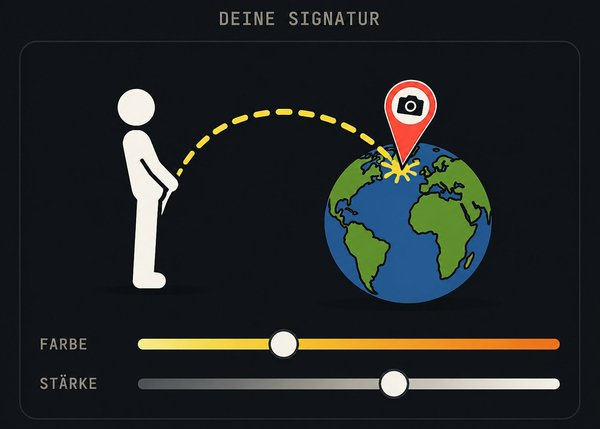
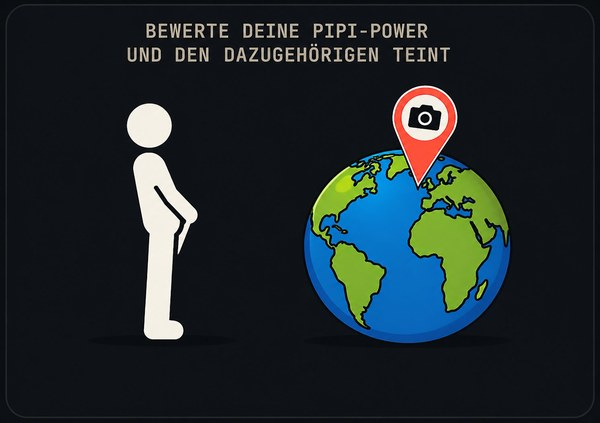
Add files via upload

diff --git a/index.html b/index.html
@@ -49,7 +49,6 @@
 
   #map { position: absolute; inset: 0; z-index: 1; }
 
-  /* App-Icon unten links als kleines Logo */
   .app-logo {
     position: absolute;
     bottom: calc(var(--safe-bottom) + 22px);
@@ -200,7 +199,6 @@
     pointer-events: none;
   }
 
-  /* Signatur-Bereich */
   .slider-section {
     margin-top: 18px;
     padding: 16px;
@@ -217,12 +215,29 @@
     margin-bottom: 12px;
     text-align: center;
   }
-  .signature-image {
+
+  /* Bild + interaktiver Strahl darüber */
+  .signature-stage {
+    position: relative;
     width: 100%;
     border-radius: 10px;
-    display: block;
+    overflow: hidden;
     margin-bottom: 8px;
+    background: #0f1416;
   }
+  .signature-stage img {
+    display: block;
+    width: 100%;
+    height: auto;
+  }
+  .signature-stage svg.overlay {
+    position: absolute;
+    inset: 0;
+    width: 100%;
+    height: 100%;
+    pointer-events: none;
+  }
+
   .slider-row {
     display: flex;
     align-items: center;
@@ -275,7 +290,7 @@
     background: linear-gradient(to right, #444, var(--gold));
   }
 
-  /* Score-Bewertungs-Dialog */
+  /* Score-Bewertung */
   .score-display {
     display: flex;
     align-items: center;
@@ -422,6 +437,7 @@
     justify-content: center;
     gap: 3px;
     margin-top: 10px;
+    align-items: center;
   }
   .lightbox .lb-stars svg { width: 18px; height: 18px; }
   .lightbox .info .lb-delete {
@@ -517,7 +533,13 @@
 
     <div class="slider-section">
       <div class="section-label">Deine Signatur</div>
-      <img class="signature-image" src="preview-signature.jpg" alt="Vorschau">
+      <div class="signature-stage">
+        <img src="preview-signature.jpg" alt="">
+        <svg class="overlay" viewBox="0 0 600 423" preserveAspectRatio="xMidYMid meet">
+          <path id="previewBeam" d="" fill="none" stroke-linecap="round"/>
+          <g id="previewSplash"></g>
+        </svg>
+      </div>
       <div class="slider-row">
         <span class="label">Farbe</span>
         <input type="range" id="colorSlider" min="0" max="100" value="30">
@@ -567,7 +589,7 @@
 <div class="toast" id="toast"></div>
 
 <script>
-// ===== IndexedDB-Speicher (viel mehr Platz als localStorage) =====
+// ===== IndexedDB =====
 const DB_NAME = 'pissTheWorld';
 const DB_VERSION = 1;
 const STORE = 'pins';
@@ -593,8 +615,7 @@ function dbGetAll() {
   return new Promise((resolve, reject) => {
     if (!db) return resolve([]);
     const tx = db.transaction(STORE, 'readonly');
-    const store = tx.objectStore(STORE);
-    const req = store.getAll();
+    const req = tx.objectStore(STORE).getAll();
     req.onsuccess = () => resolve(req.result || []);
     req.onerror = () => reject(req.error);
   });
@@ -604,8 +625,7 @@ function dbPut(pin) {
   return new Promise((resolve, reject) => {
     if (!db) return reject(new Error('DB nicht bereit'));
     const tx = db.transaction(STORE, 'readwrite');
-    const store = tx.objectStore(STORE);
-    const req = store.put(pin);
+    const req = tx.objectStore(STORE).put(pin);
     req.onsuccess = () => resolve(true);
     req.onerror = () => reject(req.error);
   });
@@ -615,8 +635,7 @@ function dbDelete(id) {
   return new Promise((resolve, reject) => {
     if (!db) return reject(new Error('DB nicht bereit'));
     const tx = db.transaction(STORE, 'readwrite');
-    const store = tx.objectStore(STORE);
-    const req = store.delete(id);
+    const req = tx.objectStore(STORE).delete(id);
     req.onsuccess = () => resolve(true);
     req.onerror = () => reject(req.error);
   });
@@ -627,11 +646,8 @@ async function loadPins() {
     const all = await dbGetAll();
     const now = Date.now();
     const fresh = all.filter(p => (now - p.createdAt) < TTL_MS);
-    // Abgelaufene aus DB entfernen
     for (const p of all) {
-      if ((now - p.createdAt) >= TTL_MS) {
-        await dbDelete(p.id);
-      }
+      if ((now - p.createdAt) >= TTL_MS) await dbDelete(p.id);
     }
     return fresh;
   } catch (e) {
@@ -697,20 +713,11 @@ function timeLeft(createdAt) {
   const m = Math.floor((ms % 3600000) / 60000);
   return `noch ${h}h ${m}m`;
 }
-function escapeHtml(s) {
-  return String(s).replace(/[&<>"']/g, c => ({'&':'&amp;','<':'&lt;','>':'&gt;','"':'&quot;',"'":'&#39;'}[c]));
-}
 
-// Score 0..10 → Stern-Füllgrad (0..5)
-function scoreToStars(score) {
-  return (score / 10) * 5;
-}
-
-// SVG-Pfad eines Sterns
+function scoreToStars(score) { return (score / 10) * 5; }
 const STAR_PATH = 'M12 2 L14.85 8.7 L22 9.27 L16.5 14 L18.18 21 L12 17.27 L5.82 21 L7.5 14 L2 9.27 L9.15 8.7 Z';
 
 function makeStarsHtml(starValue, size = 8, color = '#ffc940', dimColor = '#3a3a3a') {
-  // starValue: 0..5
   let html = '';
   for (let i = 0; i < 5; i++) {
     const fillFraction = Math.max(0, Math.min(1, starValue - i));
@@ -751,8 +758,7 @@ function makePinIcon(pin) {
   const innerSize = 3 + (pin.strength != null ? (pin.strength / 100) * 6 : 3);
   let starsHtml = '';
   if (pin.score != null) {
-    const stars = scoreToStars(pin.score);
-    starsHtml = `<div class="pin-stars">${makeStarsHtml(stars, 8)}</div>`;
+    starsHtml = `<div class="pin-stars">${makeStarsHtml(scoreToStars(pin.score), 8)}</div>`;
   }
   const html = `
     <div class="pin-marker">
@@ -764,20 +770,14 @@ function makePinIcon(pin) {
       ${starsHtml}
     </div>
   `;
-  return L.divIcon({
-    className: '',
-    html: html,
-    iconSize: [30, 36],
-    iconAnchor: [15, 34]
-  });
+  return L.divIcon({ className: '', html, iconSize: [30, 36], iconAnchor: [15, 34] });
 }
 
 function makeMeIcon() {
   return L.divIcon({
     className: '',
     html: '<div class="me-marker"></div>',
-    iconSize: [18, 18],
-    iconAnchor: [9, 9]
+    iconSize: [18, 18], iconAnchor: [9, 9]
   });
 }
 
@@ -789,27 +789,21 @@ function renderPin(pin) {
 
 async function refreshAll() {
   pins = await loadPins();
-  // Entfernte aus Karte
   for (const [id, marker] of pinMarkers) {
     if (!pins.find(p => p.id === id)) {
       map.removeLayer(marker);
       pinMarkers.delete(id);
     }
   }
-  // Neue rendern
   for (const p of pins) {
     if (!pinMarkers.has(p.id)) renderPin(p);
   }
   document.getElementById('pinCount').textContent = pins.length;
 }
 
-// Pin-Marker neu zeichnen (nach Score-Änderung)
 function rerenderPin(pin) {
   const old = pinMarkers.get(pin.id);
-  if (old) {
-    map.removeLayer(old);
-    pinMarkers.delete(pin.id);
-  }
+  if (old) { map.removeLayer(old); pinMarkers.delete(pin.id); }
   renderPin(pin);
 }
 
@@ -828,11 +822,9 @@ window.openLightbox = function(id) {
   }
   document.getElementById('lbTitle').textContent = pin.title;
   document.getElementById('lbMeta').textContent = `${formatTime(pin.createdAt)} · ${timeLeft(pin.createdAt)}`;
-  // Sterne im Lightbox
   const starsEl = document.getElementById('lbStars');
   if (pin.score != null) {
-    starsEl.innerHTML = makeStarsHtml(scoreToStars(pin.score), 18) + ` <span style="font-family: 'JetBrains Mono', monospace; font-size: 12px; color: var(--gold); margin-left: 6px; align-self: center;">${pin.score.toFixed(1)}</span>`;
-    starsEl.style.alignItems = 'center';
+    starsEl.innerHTML = makeStarsHtml(scoreToStars(pin.score), 18) + ` <span style="font-family: 'JetBrains Mono', monospace; font-size: 12px; color: var(--gold); margin-left: 6px;">${pin.score.toFixed(1)}</span>`;
   } else {
     starsEl.innerHTML = '';
   }
@@ -853,17 +845,12 @@ document.getElementById('lbDelete').addEventListener('click', async () => {
     document.getElementById('lightbox').classList.remove('show');
     currentLightboxId = null;
     toast('Pin gelöscht');
-  } catch (e) {
-    toast('Fehler beim Löschen');
-  }
+  } catch (e) { toast('Fehler beim Löschen'); }
 });
 
 // ===== GPS =====
 function locate(showToast = true) {
-  if (!navigator.geolocation) {
-    toast('GPS nicht verfügbar');
-    return Promise.reject();
-  }
+  if (!navigator.geolocation) { toast('GPS nicht verfügbar'); return Promise.reject(); }
   return new Promise((resolve, reject) => {
     navigator.geolocation.getCurrentPosition(
       pos => {
@@ -889,6 +876,53 @@ const photoLabel = document.getElementById('photoLabel');
 const fileInput = document.getElementById('fileInput');
 const colorSlider = document.getElementById('colorSlider');
 const strengthSlider = document.getElementById('strengthSlider');
+const previewBeam = document.getElementById('previewBeam');
+const previewSplash = document.getElementById('previewSplash');
+
+// Strahl-Koordinaten im 600x423-Bild
+// Start: Höhe Bauch/Hand des Männchens (rechts vom Körper)
+// Ziel: Mitte des Pin-Auftreffpunkts auf der Erde
+const BEAM_START = { x: 195, y: 235 };
+const BEAM_END = { x: 470, y: 240 };
+const BEAM_PEAK_Y = 145; // höchster Punkt des Bogens
+
+function updatePreview() {
+  const c = +colorSlider.value;
+  const s = +strengthSlider.value;
+  const color = urineColor(c);
+  // Strichbreite: 3..14 px im SVG-Koordinatensystem
+  const w = 3 + (s / 100) * 11;
+  // Bogen-Pfad: vom Start über Peak zum End
+  const peakX = (BEAM_START.x + BEAM_END.x) / 2;
+  const path = `M ${BEAM_START.x} ${BEAM_START.y} Q ${peakX} ${BEAM_PEAK_Y - (s/100)*30} ${BEAM_END.x} ${BEAM_END.y}`;
+  previewBeam.setAttribute('d', path);
+  previewBeam.setAttribute('stroke', color);
+  previewBeam.setAttribute('stroke-width', w);
+  // Strichelung skaliert mit Stärke
+  const dash = Math.max(8, w * 1.8);
+  const gap = Math.max(10, w * 1.6);
+  previewBeam.setAttribute('stroke-dasharray', `${dash} ${gap}`);
+  // Spritzer: Größe abhängig von Stärke
+  const splashSize = 6 + (s / 100) * 22;
+  const cx = BEAM_END.x;
+  const cy = BEAM_END.y;
+  // Stern-förmiger Spritzer mit Strahlen
+  let spokes = '';
+  const n = 8;
+  for (let i = 0; i < n; i++) {
+    const angle = (i / n) * Math.PI * 2;
+    const len = splashSize * (0.6 + Math.random() * 0.4);
+    const x1 = cx + Math.cos(angle) * splashSize * 0.35;
+    const y1 = cy + Math.sin(angle) * splashSize * 0.35;
+    const x2 = cx + Math.cos(angle) * len;
+    const y2 = cy + Math.sin(angle) * len;
+    spokes += `<line x1="${x1}" y1="${y1}" x2="${x2}" y2="${y2}" stroke="${color}" stroke-width="${Math.max(1.5, w*0.4)}" stroke-linecap="round"/>`;
+  }
+  previewSplash.innerHTML = `<circle cx="${cx}" cy="${cy}" r="${splashSize * 0.3}" fill="${color}"/>${spokes}`;
+}
+
+colorSlider.addEventListener('input', updatePreview);
+strengthSlider.addEventListener('input', updatePreview);
 
 function resetModal() {
   titleInput.value = '';
@@ -899,6 +933,7 @@ function resetModal() {
   fileInput.value = '';
   colorSlider.value = 30;
   strengthSlider.value = 60;
+  updatePreview();
 }
 
 document.getElementById('addBtn').addEventListener('click', async () => {
@@ -926,9 +961,7 @@ fileInput.addEventListener('change', async (e) => {
     photoArea.classList.add('has-photo');
     photoArea.innerHTML = `<img src="${dataUrl}" alt=""><div class="replace-tag">Foto ändern</div>`;
     toast('Foto bereit');
-  } catch (err) {
-    toast('Foto konnte nicht geladen werden');
-  }
+  } catch (err) { toast('Foto konnte nicht geladen werden'); }
 });
 
 document.getElementById('cancelBtn').addEventListener('click', () => {
@@ -943,9 +976,7 @@ document.getElementById('saveBtn').addEventListener('click', async () => {
   const strengthVal = +strengthSlider.value;
   const pin = {
     id: 'p_' + Date.now() + '_' + Math.random().toString(36).slice(2, 7),
-    title,
-    lat: myPosition.lat,
-    lng: myPosition.lng,
+    title, lat: myPosition.lat, lng: myPosition.lng,
     createdAt: Date.now(),
     photo: pendingPhoto || null,
     color: urineColor(colorVal),
@@ -957,7 +988,6 @@ document.getElementById('saveBtn').addEventListener('click', async () => {
     await refreshAll();
     modal.classList.remove('show');
     toast('Pin gespeichert');
-    // Direkt Bewertungs-Dialog öffnen
     openScoreModal(pin);
   } catch (e) {
     console.error('Save failed:', e);
@@ -979,7 +1009,6 @@ const scoreStars = document.getElementById('scoreStars');
 const scorePinTitle = document.getElementById('scorePinTitle');
 let scoringPin = null;
 
-// Initial die 5 Stern-Container bauen
 function buildStarContainers() {
   let html = '';
   for (let i = 0; i < 5; i++) {
@@ -987,7 +1016,7 @@ function buildStarContainers() {
       <div class="star">
         <svg viewBox="0 0 24 24"><path d="${STAR_PATH}" fill="#3a3a3a"/></svg>
         <div class="star-fill" style="width: 0;">
-          <svg viewBox="0 0 24 24"><path d="${STAR_PATH}" fill="${'#ffc940'}"/></svg>
+          <svg viewBox="0 0 24 24"><path d="${STAR_PATH}" fill="#ffc940"/></svg>
         </div>
       </div>
     `;
@@ -997,10 +1026,8 @@ function buildStarContainers() {
 buildStarContainers();
 
 function updateScoreDisplay() {
-  const sliderVal = +scoreSlider.value; // 0..100
-  const score = sliderVal / 10; // 0..10 in 0.1 Schritten
+  const score = +scoreSlider.value / 10;
   scoreValue.textContent = score.toFixed(1);
-  // Sterne füllen (0..5)
   const starsValue = (score / 10) * 5;
   const starEls = scoreStars.querySelectorAll('.star');
   starEls.forEach((el, i) => {
@@ -1034,9 +1061,7 @@ document.getElementById('scoreSaveBtn').addEventListener('click', async () => {
     scoreModal.classList.remove('show');
     scoringPin = null;
     toast(`Bewertung ${score.toFixed(1)} gespeichert`);
-  } catch (e) {
-    toast('Fehler beim Speichern');
-  }
+  } catch (e) { toast('Fehler beim Speichern'); }
 });
 
 // ===== Toast =====
@@ -1060,6 +1085,7 @@ function toast(msg) {
   }
   locate(false).catch(() => {});
   setInterval(refreshAll, 60 * 1000);
+  updatePreview();
 })();
 </script>
 </body>
